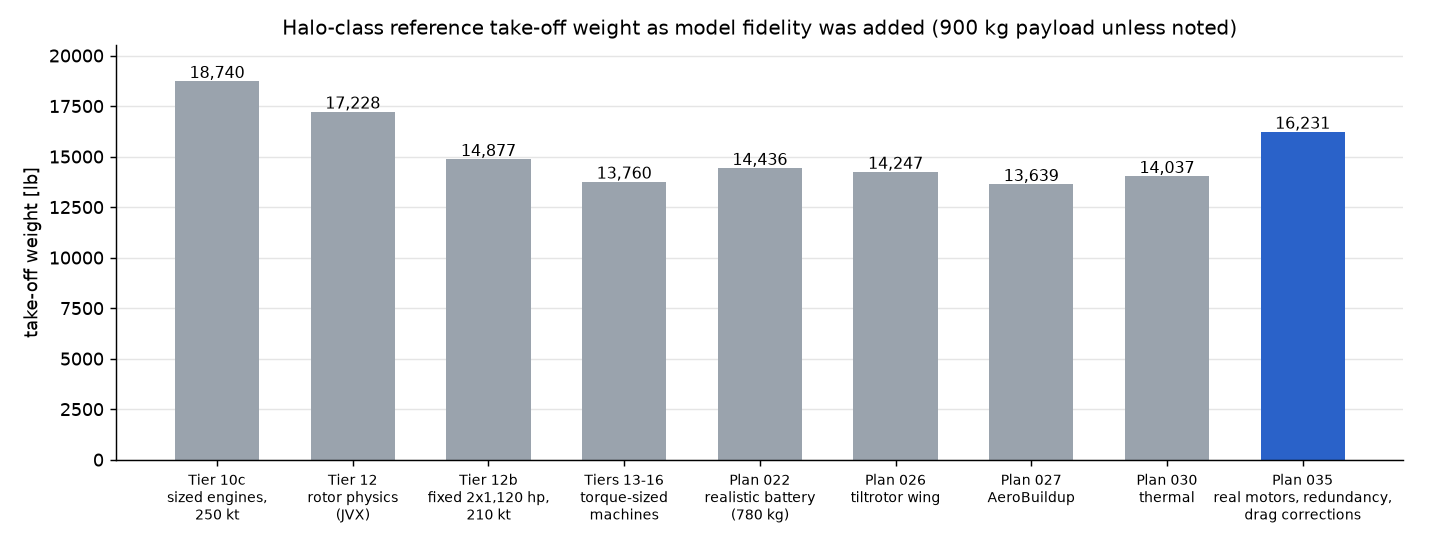
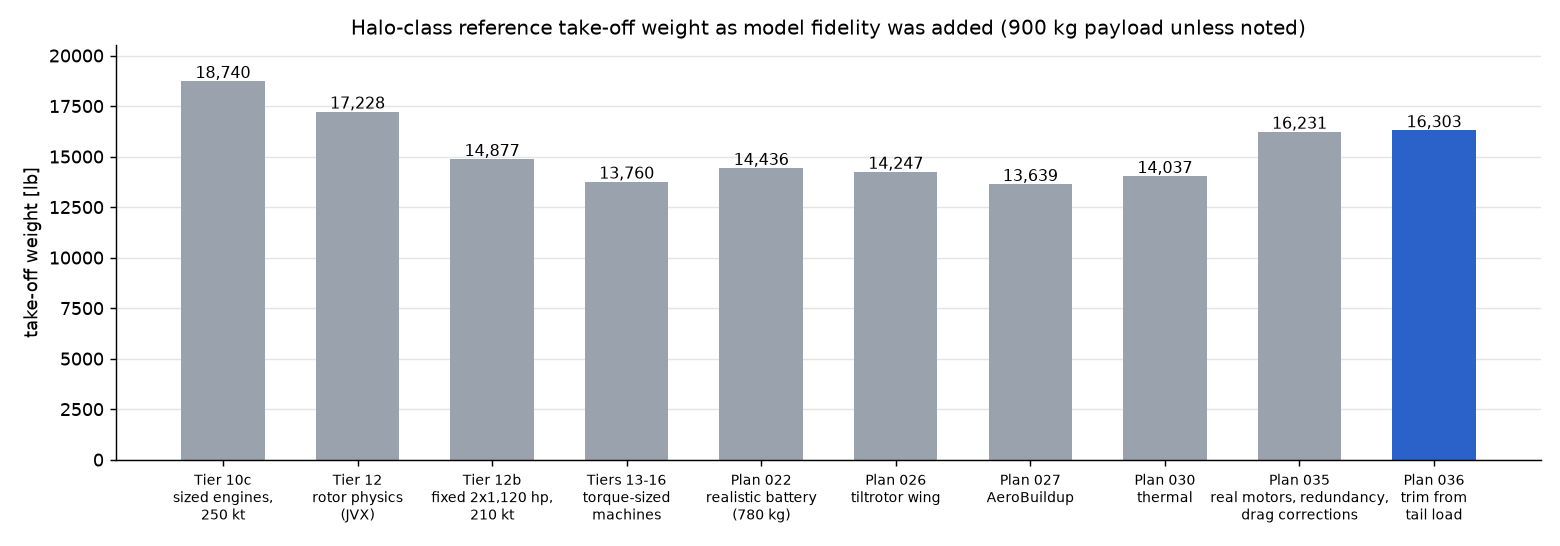
docs: reference with tail-load trim (16,303 lb); trajectories fly the current reference

diff --git a/tests/integration/test_halo_plan035.py b/tests/integration/test_halo_plan035.py
@@ -24,7 +24,7 @@ class Plan035ReferenceTests(unittest.TestCase):
         self.assertGreater(r.min_margin, -1e-6)
         self.assertLess(abs(r.closure_residual_kg), 1e-3)
         self.assertEqual(r.mass_payload_kg, 900.0)
-        self.assertAlmostEqual(r.mass_takeoff_kg / u.lbm, 16231, delta=20)
+        self.assertAlmostEqual(r.mass_takeoff_kg / u.lbm, 16303, delta=20)
 
     def test_machines_are_whole_units_on_two_lanes(self):
         r = self.result

diff --git a/docs/RESULTS.md b/docs/RESULTS.md
@@ -101,32 +101,32 @@ Diagrams of the layering, the fidelity scaling and the solve levels:
 GASP deck). The engines are not sized, because a non-OEM cannot add
 turbine power. The battery supplements hover and is recharged in flight.
 
-### Reference result (`solve_halo_sizing()`, plan 035)
+### Reference result (`solve_halo_sizing()`, plans 035–036)
 
 | Quantity | Value |
 |---|---|
-| Take-off mass | **7,362 kg (16,231 lb)** |
-| Empty mass | 5,496 kg |
-| Fuel (with reserve) | 967 kg |
-| Battery | 81.1 kWh, 550 kg, 2 isolated strings (end-of-life rating) |
-| Wing | 24.6 m², span 12.3 m (tiltrotor wing, whirl-flutter sized) |
+| Take-off mass | **7,395 kg (16,303 lb)** |
+| Empty mass | 5,522 kg |
+| Fuel (with reserve) | 973 kg |
+| Battery | 81.8 kWh, 556 kg, 2 isolated strings (end-of-life rating) |
+| Wing | 24.7 m², span 12.3 m (tiltrotor wing, whirl-flutter sized) |
 | Rotors | 2 × 10.0 m diameter; disk loading 47 kg/m² (9.6 lb/ft²) |
 | Motors | 2 lanes per rotor; each lane is 2 Evolito D1500-class units (528 kW continuous), 8 units in all |
 | Generators | each is 3 Helix SPX242-class units |
 | Rotor gearbox | 5.0:1, one stage |
 | Turboshafts | 2 × 835 kW (1,120 hp), fixed |
-| Cruise | 162 kt at 10,000 ft, L/D 9.3 |
-| Heat exchanger | 139 kg ram-air unit, fans in hover |
-| Cost per mission | about USD 3,440 (Tier 22 cost model; prices are labelled assumptions) |
+| Cruise | 166 kt at 10,000 ft, L/D 9.25 |
+| Heat exchanger | 140 kg ram-air unit, fans in hover |
+| Cost per mission | about USD 3,420 (Tier 22 cost model; prices are labelled assumptions) |
 
 **Mass breakdown (kg):**
 
 | Group | Mass |
 |---|---|
-| Powertrain | 3,045 |
-| Fuselage | 654 |
-| Systems | 550 |
-| Wing | 451 |
+| Powertrain | 3,057 |
+| Fuselage | 663 |
+| Systems | 552 |
+| Wing | 453 |
 | Landing gear | 272 |
 | Equipment | 266 |
 | Nacelles | 195 |
@@ -136,14 +136,14 @@ Within the powertrain:
 
 | Item | Mass |
 |---|---|
-| Rotors | 735 |
-| Battery | 550 |
+| Rotors | 739 |
+| Battery | 556 |
 | Motors with inverters | 426 |
 | Turboshafts | 422 |
-| Rotor gearboxes | 318 |
+| Rotor gearboxes | 319 |
 | Generators with inverters | 282 |
 | Generator gearboxes | 144 |
-| Heat exchanger | 139 |
+| Heat exchanger | 140 |
 | Bus tie and string protection | 31 |
 
 ### What sizes the aircraft
@@ -173,7 +173,8 @@ These are the constraints active at the optimum:
 | Plan 026 | 900 kg | 14,247 lb | NDARC tiltrotor wing replaces the light-aircraft wing equations |
 | Plan 027 | 900 kg | 13,639 lb | AeroBuildup aerodynamics: the guessed 0.8 m² miscellaneous drag area was most of the aircraft's drag |
 | Plan 030 | 900 kg | 14,037 lb | Thermal model: heat exchanger +133 kg; short-time ratings save 63 kg of machines |
-| **Plan 035** | **900 kg** | **16,231 lb** | **Real machine units instead of idealized ("rubber") scaling; redundancy (2 lanes, 2 buses, 2 strings); drag corrections for excrescence and trim** |
+| Plan 035 | 900 kg | 16,231 lb | **Real machine units instead of idealized ("rubber") scaling; redundancy (2 lanes, 2 buses, 2 strings); drag corrections for excrescence and trim** |
+| **Plan 036** | **900 kg** | **16,303 lb** | **Trim drag from the tail load (η_H 0.9, cos tail dihedral, Scholz downwash) replaces the flat 2 %** |
 
 Two outcomes stand out:
 
@@ -193,25 +194,30 @@ Two outcomes stand out:
 
 ## 5. Trajectory optimization (Tier 14)
 
-These problems fly the plan 027 aircraft (13,639 lb, thermal off); see
-Section 6 for why.
+Since plan 036 the trajectory model flies the current reference. It
+carries machine and battery temperature states with short-time ratings,
+cooling drag and fan power, and the lane motors.
+
+On the plan 035 reference (16,231 lb; the plan 036 trim change is small):
 
 - **Minimum-energy conversion** from hover at 500 ft to 1.3 × the
-  airplane-mode stall speed:
-  - optimized: 21.5 s and 8.5 kWh;
-  - naive linear-nacelle, constant-acceleration schedule: 60 s and
-    17.1 kWh.
-  The optimized path uses about half the energy.
+  airplane-mode stall speed: 22.5 s and 10.5 kWh.
 - **Minimum time to climb** from hover at sea level to 10,000 ft at cruise
-  speed: 222 s, against about 508 s for the sizing mission's prescribed
-  6 m/s climb.
+  speed: 225 s, SOC 0.95 → 0.73. That compares with about 508 s for the
+  sizing mission's prescribed 6 m/s climb.
+
+On the plan 027 aircraft (13,639 lb, thermal off), the optimized
+conversion took 21.5 s and 8.5 kWh. A naive linear-nacelle,
+constant-acceleration schedule took 60 s and 17.1 kWh, so the optimized
+path uses about half the energy.
 
 ## 6. Limits and open items, roughly by impact
 
-1. **Drag calibration.** Excrescence and trim corrections are applied
-   (plan 034). The excrescence factor is calibrated so the XV-15
-   components match NASA NDARC's drag (1.27 on AeroBuildup); trim drag is
-   an assumed 2 %. Neither is checked against XV-15 flight data, and drag
+1. **Drag calibration.** The excrescence factor is calibrated so the
+   XV-15 components match NASA NDARC's drag (1.27 on AeroBuildup, plan
+   034). Trim drag comes from the tail load needed for zero moment about
+   the CG (plan 036): AeroBuildup's moment, Scholz's tail efficiency
+   (0.9) and downwash, about 2 % of drag at cruise. Neither is checked against XV-15 flight data, and drag
    strongly drives payload headroom.
 2. **Weight calibration rests on one complete aircraft.** The XV-15 is the
    only complete weight statement. Two groups need large factors because

diff --git a/README.md b/README.md
@@ -18,7 +18,7 @@ validated against the Bell XV-15 and the full-scale JVX proprotor test.
 - **Engines:** two fixed off-the-shelf 1,120 hp turboshafts.
 - **Battery:** Samsung 50G-shaped equivalent-circuit pack.
 - **Wing:** NDARC tiltrotor wing with whirl-flutter margins.
-- **Aerodynamics:** AeroSandbox AeroBuildup with Scholz drag corrections.
+- **Aerodynamics:** AeroSandbox AeroBuildup with Scholz drag corrections and trim drag from the tail load.
 - **Thermal:** heat exchanger sized with the aircraft.
 - **Machines and drive:**
   - redundant motors (2 lanes per rotor), 2 cross-strapped buses, 2 battery
@@ -26,7 +26,7 @@ validated against the Bell XV-15 and the full-scale JVX proprotor test.
   - machines built from whole units of real products (Evolito-class motors,
     Helix-class generators);
   - a single-stage 5:1 rotor gearbox.
-- **Result:** 7,362 kg (16,231 lb) take-off weight.
+- **Result:** 7,395 kg (16,303 lb) take-off weight.
 
 **For reviewers:**
 - [docs/RESULTS.md](docs/RESULTS.md): what the framework concludes, how it is
